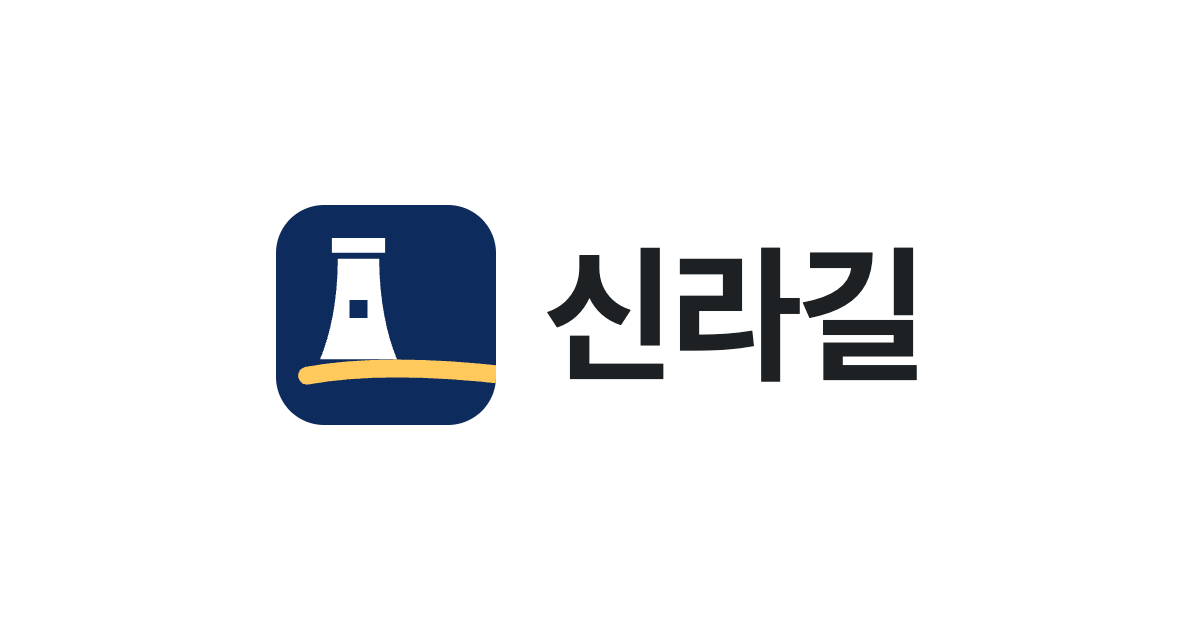
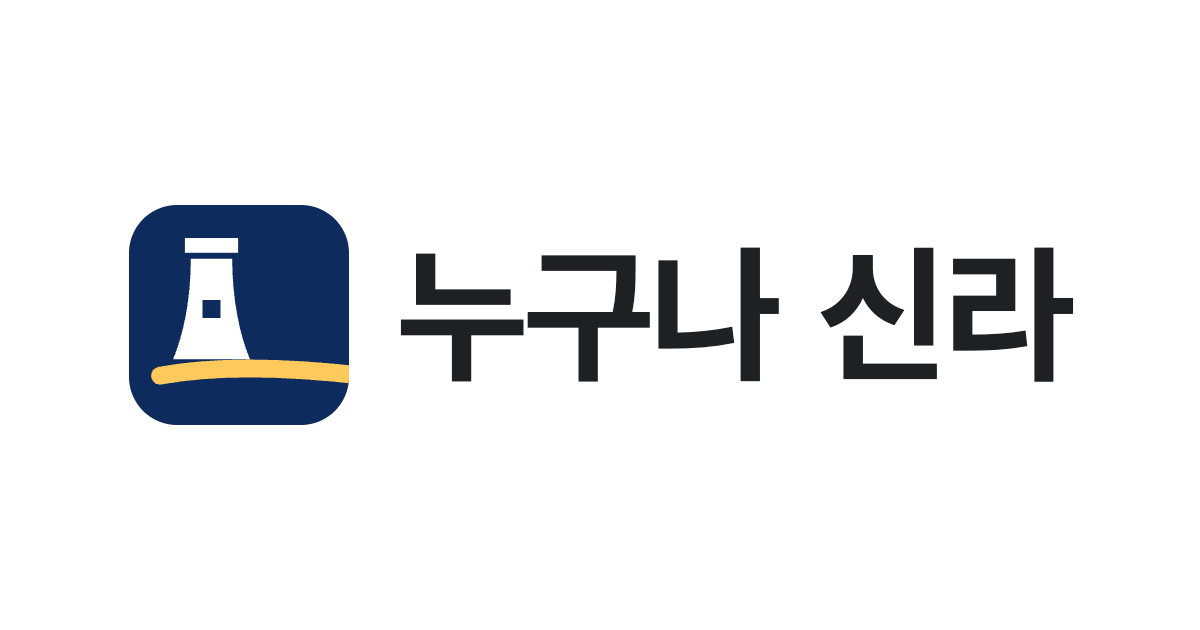
사이트 이름을 '누구나 신라'로, 주소를 sillaforall.vercel.app 으로(사용자 09-27: 무장애 느낌, 후보 20개 가운데 11번, Tourism for All 계열). 링크 미리보기 그림 다시 만듦(표장 그대로)

Changed region(s): [[0.0925, 0.3016, 0.8942, 0.6937]]

diff --git a/src/site/og.ts b/src/site/og.ts
@@ -1,17 +1,17 @@
 // 링크 미리보기(오픈그래프·트위터 카드). 카카오톡·문자·SNS 에 주소를 붙였을 때 뜨는 제목·설명·사진.
-// - 사이트 기본(app/layout.tsx): 제목 SITE_NAME("신라길"), 설명은 meta description 그대로, 그림은 로고 그림 /og.png(09-27; 전에는 첫 쪽 넘기기 첫 장(HERO_IDS 첫째,
+// - 사이트 기본(app/layout.tsx): 제목 SITE_NAME("누구나 신라"), 설명은 meta description 그대로, 그림은 로고 그림 /og.png(09-27; 전에는 첫 쪽 넘기기 첫 장(HERO_IDS 첫째,
 //   불국사 p34)의 제1유형 사진 큰 판). og:url 은 쪽마다 배포 주소 + 그 쪽 경로(첫 쪽은 app/page.tsx, 관광지가 아닌 쪽은 pageMetadata,
 //   관광지 쪽은 placeMetadata). 레이아웃에 두면 모든 쪽이 첫 쪽 주소를 제 주소로 내세우게 되어 쪽마다 둔다(09-27 점검).
 // - 관광지가 아닌 쪽: og 제목·설명·사진은 사이트 기본 그대로(명세), og:url 만 그 쪽 주소.
-// - 관광지 쪽(places/[id] 과 그 아래 쪽): 제목은 <title> 과 같은 "대릉원 | 신라길" 꼴, 사진은 그 곳의 제1유형 사진(coverPhoto)
+// - 관광지 쪽(places/[id] 과 그 아래 쪽): 제목은 <title> 과 같은 "대릉원 | 누구나 신라" 꼴, 사진은 그 곳의 제1유형 사진(coverPhoto)
 //   큰 판, 없으면 사이트 기본. 제3유형 사진은 쓰지 않는다(미리보기가 사진을 잘라 보이므로 변경금지 사진은 안 됨).
 // 주소는 metadataBase(배포 주소) 기준으로 풀린다.
 import type { Metadata } from "next";
 import { SITE_NAME } from "./ia";
 import { coverPhoto, largeUrl, type Photo } from "@/data/photos";
 
-/** 배포 주소(Vercel). 09-27 사용자 결정으로 gyeongju-guide.vercel.app → sillaway.vercel.app(옛 주소도 같은 판을 보인다) */
-export const SITE_URL = "https://sillaway.vercel.app";
+/** 배포 주소(Vercel). 09-27 사용자 결정으로 gyeongju-guide.vercel.app → sillaway.vercel.app → sillaforall.vercel.app(옛 주소는 넘김, next.config) */
+export const SITE_URL = "https://sillaforall.vercel.app";
 /** meta description(사이트 전체) */
 export const SITE_DESC = "경주 관광지 61곳의 위치와 무장애 정보를 모은 안내 사이트";
 
@@ -46,7 +46,7 @@ export function pageMetadata(title: string, path: string): Metadata {
   return { title, openGraph: { ...SITE_OG, url: path } };
 }
 
-/** 관광지 쪽 메타데이터: title 은 쪽 제목(틀 "%s | 신라길"이 붙는다), og 제목은 <title> 과 같은 글, 사진은 그 곳 제1유형 사진 */
+/** 관광지 쪽 메타데이터: title 은 쪽 제목(틀 "%s | 누구나 신라"가 붙는다), og 제목은 <title> 과 같은 글, 사진은 그 곳 제1유형 사진 */
 export function placeMetadata(id: string, title: string, path: string): Metadata {
   const ph = coverPhoto(id);
   const img = ph && ph.type === "Type1" ? ogImageOf(ph) : SITE_IMAGE;

diff --git a/src/site/ia.ts b/src/site/ia.ts
@@ -16,7 +16,7 @@ export type SideMenuLink = { label: string; href: string };
 export type SideMenuItem = { label: string; href: string; children?: SideMenuLink[] };
 export type SideMenu = { title: string; items: SideMenuItem[] };
 
-export const SITE_NAME = "신라길"; // 09-27 사용자 결정(주소 sillaway.vercel.app 과 같게). 전 이름 "경주 관광지 안내"
+export const SITE_NAME = "누구나 신라"; // 09-27 사용자 결정(무장애 느낌, 주소 sillaforall.vercel.app, Tourism for All 계열). 전 이름 "신라길"(같은 날 오전), 그 전 "경주 관광지 안내"
 
 export const MENU: NavItem[] = [
   {
